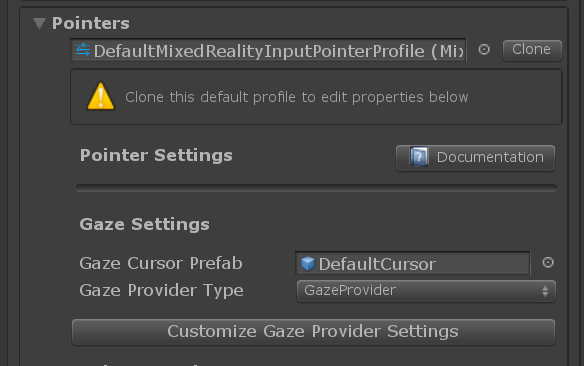
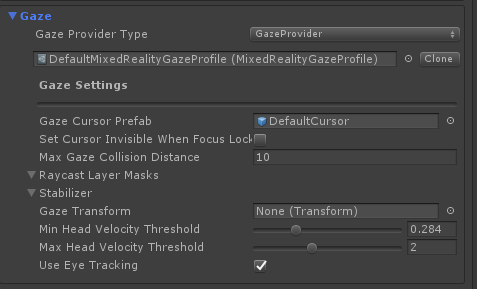
Update the gaze documentation to reflect the new location of gaze settings.

diff --git a/Documentation/Input/Gaze.md b/Documentation/Input/Gaze.md
@@ -24,7 +24,7 @@ to use eye gaze.
 
 Gaze functionality (both head and eye) is provided by the
 [GazeProvider](xref:Microsoft.MixedReality.Toolkit.Input.GazeProvider). This provider can be configured
-in the *Pointer* section of the input system profile:
+in the *Gaze* section of the input system profile:
 
 ![Gaze Configuration Entrypoint](../../Documentation/Images/Input/GazeConfigurationEntrypoint.png)
 
@@ -44,7 +44,7 @@ bugs) as re-implementing the GazeProvider is non-trivial.
 
 ### How get the current gaze target
 
-This sample shows how to get the current game object that is targetted by the user gaze.
+This sample shows how to get the current game object that is targeted by the user gaze.
 
 ```csharp
 void LogCurrentGazeTarget()
@@ -72,4 +72,3 @@ void LogGazeDirectionOrigin()
         + CoreServices.InputSystem.GazeProvider.GazeOrigin);
 }
 ```
-
